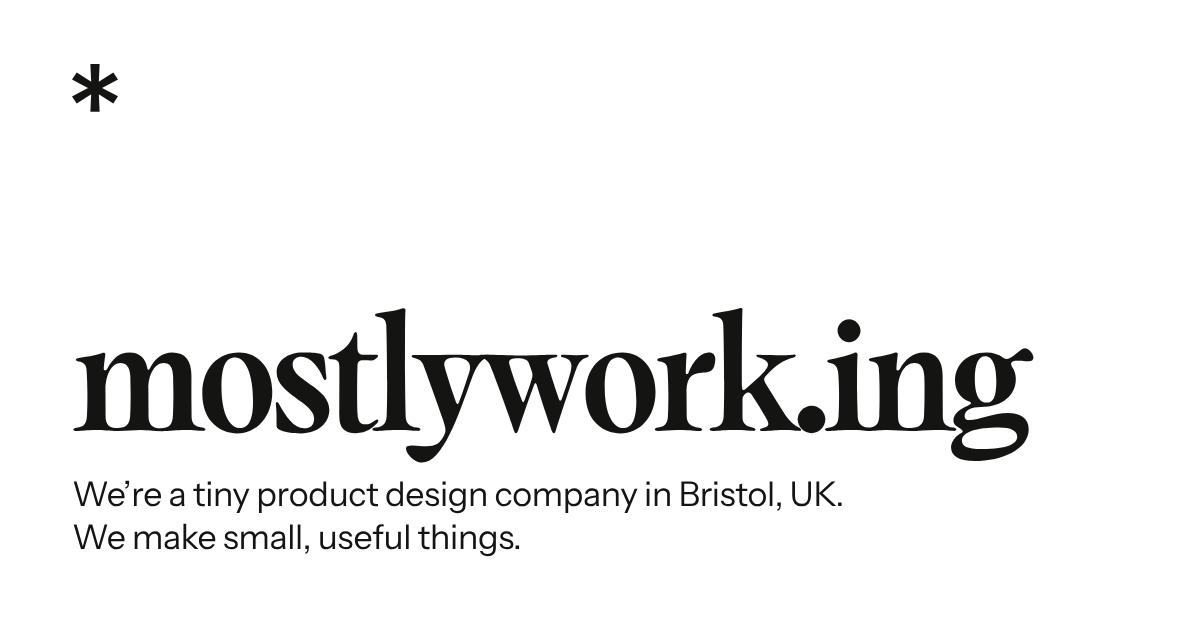
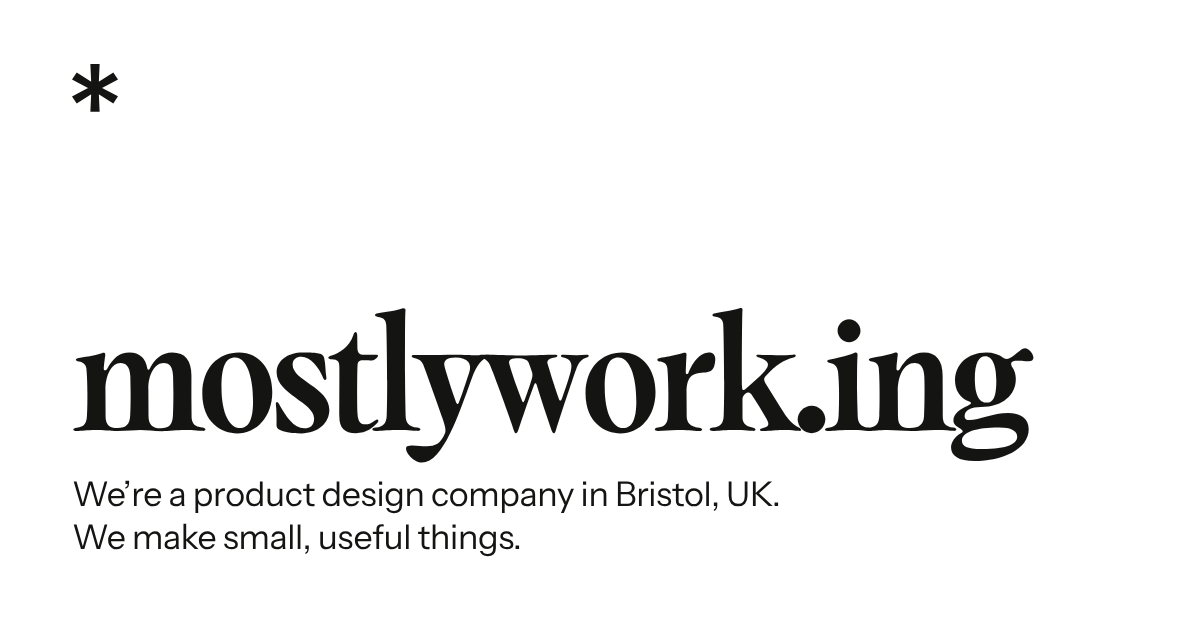
Align the ↗ arrows; drop "tiny" from the copy
- Replace the text ↗ (which Instrument Sans lacks, so it came from a
  different fallback font on each device) with an inline SVG drawn to
  the font's metrics: 0.72em cap height, 0.08em strokes, sitting on
  the baseline. Its edges now land exactly on the text's baseline and
  cap height.
- "We’re a tiny product design company in Bristol, UK." becomes "We’re
  a product design company in Bristol, UK.", in the page and in the
  meta/og descriptions, alt text and og.png. "We make small, useful
  things." stays on its own line.
- The first sentence is now 20.8em wide, so phone Body text scales at
  4.7% of the column (about 16.8px on a 390px phone, up from 15.4px).

Claude-Session: https://claude.ai/code/session_017UFRXYQtUMif1BB6ZR5QC6

Changed region(s): [[0.1542, 0.754, 0.7092, 0.8143]]

diff --git a/index.html b/index.html
@@ -4,7 +4,7 @@
 <meta charset="utf-8">
 <meta name="viewport" content="width=device-width, initial-scale=1">
 <title>mostlywork.ing</title>
-<meta name="description" content="mostlywork.ing is a tiny product design company from Bristol. We make small, useful things.">
+<meta name="description" content="mostlywork.ing is a product design company in Bristol, UK. We make small, useful things.">
 <link rel="canonical" href="https://mostlywork.ing/">
 <meta name="theme-color" content="#ffffff">
 
@@ -12,11 +12,11 @@
 <meta property="og:url" content="https://mostlywork.ing/">
 <meta property="og:site_name" content="mostlywork.ing">
 <meta property="og:title" content="mostlywork.ing">
-<meta property="og:description" content="A tiny product design company in Bristol, UK. We make small, useful things.">
+<meta property="og:description" content="A product design company in Bristol, UK. We make small, useful things.">
 <meta property="og:image" content="https://mostlywork.ing/og.png">
 <meta property="og:image:width" content="1200">
 <meta property="og:image:height" content="630">
-<meta property="og:image:alt" content="mostlywork.ing: We’re a tiny product design company in Bristol, UK. We make small, useful things.">
+<meta property="og:image:alt" content="mostlywork.ing: We’re a product design company in Bristol, UK. We make small, useful things.">
 <meta name="twitter:card" content="summary_large_image">
 
 <link rel="icon" href="/favicon.svg" type="image/svg+xml" media="(prefers-color-scheme: light)">
@@ -36,7 +36,7 @@
 <main>
   <section class="intro">
     <h1>mostlywork.ing</h1>
-    <p class="lede lede-fit"><span>We’re a tiny product design company in Bristol,&nbsp;UK.</span> <span>We make small, useful&nbsp;things.</span></p>
+    <p class="lede lede-fit"><span>We’re a product design company in Bristol,&nbsp;UK.</span> <span>We make small, useful&nbsp;things.</span></p>
     <address class="contact">
       <dl>
         <dt>Contact:</dt>
@@ -56,7 +56,7 @@
           <span class="project-num" aria-hidden="true">01</span>
           <span class="project-name">Macro</span>
           <span class="project-desc">Simple calorie counter.</span>
-          <span class="project-url">usemacro.app <span class="arrow" aria-hidden="true">↗</span></span>
+          <span class="project-url">usemacro.app<svg class="arrow" viewBox="0 0 72 72" aria-hidden="true" focusable="false"><path d="M2.83 69.17 68 4M28 4H68V44"/></svg></span>
           <span class="sr-only">(opens in a new tab)</span>
         </a>
       </li>
@@ -65,7 +65,7 @@
           <span class="project-num" aria-hidden="true">02</span>
           <span class="project-name">Scene</span>
           <span class="project-desc">Letterboxd for gigs.</span>
-          <span class="project-url">ourscene.uk <span class="arrow" aria-hidden="true">↗</span></span>
+          <span class="project-url">ourscene.uk<svg class="arrow" viewBox="0 0 72 72" aria-hidden="true" focusable="false"><path d="M2.83 69.17 68 4M28 4H68V44"/></svg></span>
           <span class="sr-only">(opens in a new tab)</span>
         </a>
       </li>
@@ -74,7 +74,7 @@
           <span class="project-num" aria-hidden="true">03</span>
           <span class="project-name">Breakout</span>
           <span class="project-desc">The remote breakout area.</span>
-          <span class="project-url">letsbreakout.com <span class="arrow" aria-hidden="true">↗</span></span>
+          <span class="project-url">letsbreakout.com<svg class="arrow" viewBox="0 0 72 72" aria-hidden="true" focusable="false"><path d="M2.83 69.17 68 4M28 4H68V44"/></svg></span>
           <span class="sr-only">(opens in a new tab)</span>
         </a>
       </li>

diff --git a/styles.css b/styles.css
@@ -304,14 +304,23 @@ a {
 .project-url {
   display: flex;
   align-items: baseline;
-  gap: 0.5em;
+  gap: 0.3em;
   grid-column: span 3;
   justify-self: end;
   white-space: nowrap;
 }
 
+/* ↗ drawn to Instrument Sans's metrics: 0.72em cap height, 0.08em stems.
+   It sits on the baseline, so it lines up with the text on every device
+   (the font has no ↗ glyph, so a text arrow would come from a fallback). */
 .arrow {
-  display: inline-block;
+  flex: none;
+  width: 0.72em;
+  height: 0.72em;
+  fill: none;
+  stroke: currentColor;
+  stroke-width: 8;
+  overflow: visible;
   transition: transform 0.4s var(--ease-out);
 }
 
@@ -350,10 +359,10 @@ a {
     margin-top: 32px;
   }
 
-  /* The lede's first sentence is 22.7em wide and must not wrap, so Body
-     text scales with the column (4.3% of its width) on small screens. */
+  /* The lede's first sentence is 20.8em wide and must not wrap, so Body
+     text scales with the column (4.7% of its width) on small screens. */
   :root {
-    --body-size: clamp(14px, calc((100vw - 2 * var(--gutter)) * 0.043), 18px);
+    --body-size: clamp(14px, calc((100vw - 2 * var(--gutter)) * 0.047), 18px);
   }
 
   .project {
